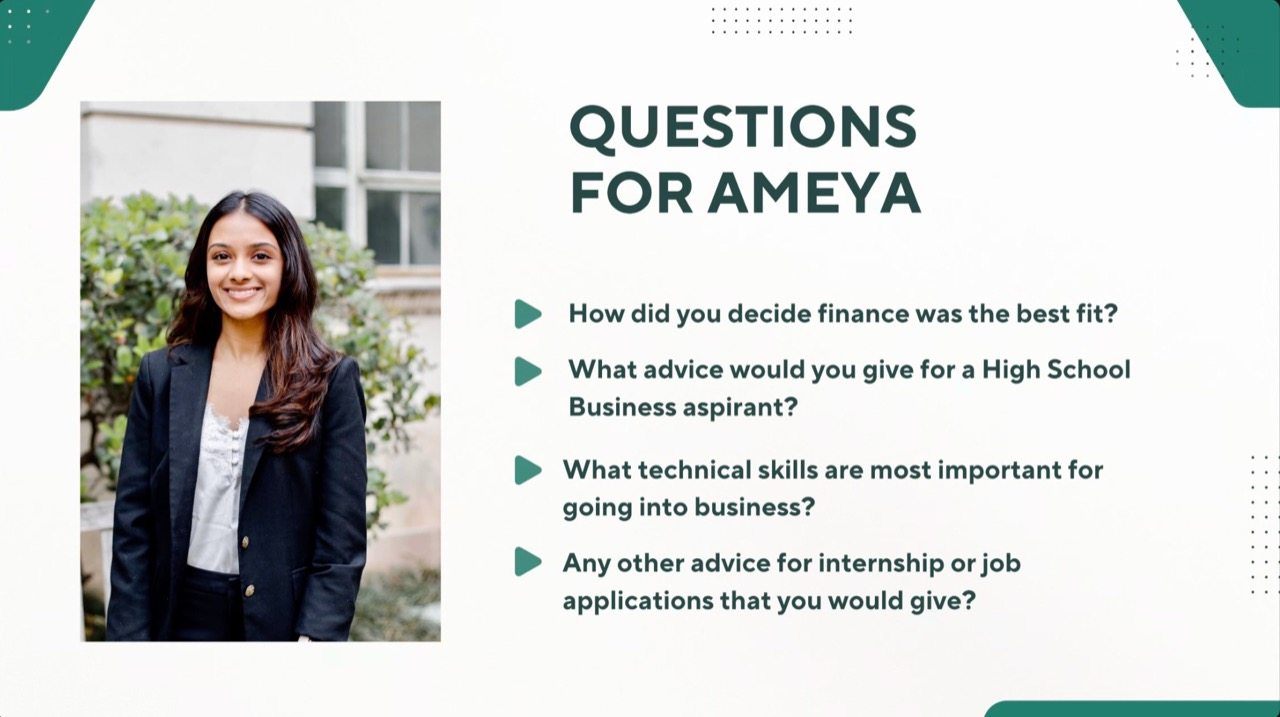
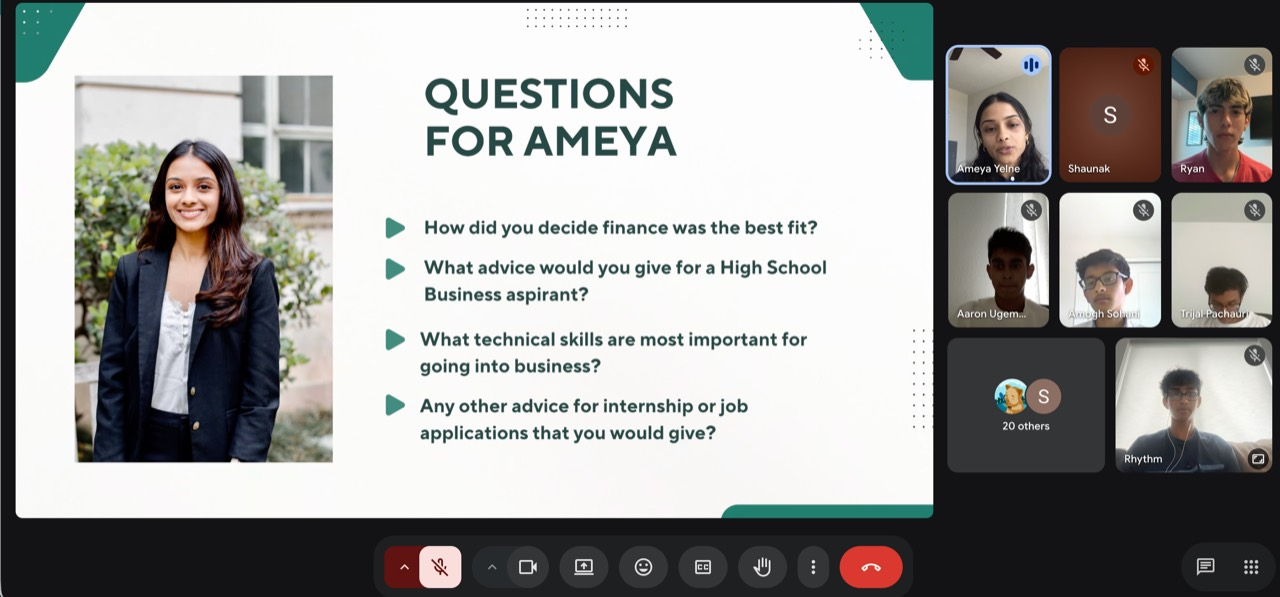
kj

diff --git a/index.html b/index.html
@@ -216,7 +216,7 @@
               <svg width="36" height="36" viewBox="0 0 24 24" fill="none" xmlns="http://www.w3.org/2000/svg"><rect x="3" y="3" width="18" height="18" rx="2" stroke="currentColor" stroke-width="1.5"/><circle cx="8.5" cy="9.5" r="1.5" stroke="currentColor" stroke-width="1.5"/><path d="M21 15l-5-5-9 9" stroke="currentColor" stroke-width="1.5" stroke-linecap="round" stroke-linejoin="round"/></svg>
               <p>Photo coming soon</p>
             </div>
-            <div class="carousel-caption"><div class="cap-event">ABLE Health · July 16</div><div class="cap-title">Health Workshop</div></div>
+            <div class="carousel-caption"><div class="cap-event">ABLE Health · July 16</div><div class="cap-title">Health Literacy Workshop</div></div>
           </div>
           <div class="carousel-slide">
             <img src="assets/images/gallery/preps-webinar/1.jpg" width="1280" height="590" loading="lazy" decoding="async" alt="ABLE Preps webinar" data-fallback>
@@ -224,7 +224,7 @@
               <svg width="36" height="36" viewBox="0 0 24 24" fill="none" xmlns="http://www.w3.org/2000/svg"><rect x="3" y="3" width="18" height="18" rx="2" stroke="currentColor" stroke-width="1.5"/><circle cx="8.5" cy="9.5" r="1.5" stroke="currentColor" stroke-width="1.5"/><path d="M21 15l-5-5-9 9" stroke="currentColor" stroke-width="1.5" stroke-linecap="round" stroke-linejoin="round"/></svg>
               <p>Photo coming soon</p>
             </div>
-            <div class="carousel-caption"><div class="cap-event">ABLE Preps · July 21</div><div class="cap-title">Preps Webinar</div></div>
+            <div class="carousel-caption"><div class="cap-event">ABLE Preps · July 21</div><div class="cap-title">College Admissions Journey Webinar</div></div>
           </div>
           <div class="carousel-slide">
             <img src="assets/images/gallery/business-workshop/3.jpg" width="1280" height="960" loading="lazy" decoding="async" alt="Mark Bittle speaking at the ABLE Business workshop" data-fallback>
@@ -232,7 +232,7 @@
               <svg width="36" height="36" viewBox="0 0 24 24" fill="none" xmlns="http://www.w3.org/2000/svg"><rect x="3" y="3" width="18" height="18" rx="2" stroke="currentColor" stroke-width="1.5"/><circle cx="8.5" cy="9.5" r="1.5" stroke="currentColor" stroke-width="1.5"/><path d="M21 15l-5-5-9 9" stroke="currentColor" stroke-width="1.5" stroke-linecap="round" stroke-linejoin="round"/></svg>
               <p>Photo coming soon</p>
             </div>
-            <div class="carousel-caption"><div class="cap-event">ABLE Business · July 22</div><div class="cap-title">Business Workshop</div></div>
+            <div class="carousel-caption"><div class="cap-event">ABLE Business · July 22</div><div class="cap-title">How to Build a $tartup Workshop</div></div>
           </div>
         </div>
         <button class="carousel-arrow prev" aria-label="Previous photo">‹</button>
@@ -264,8 +264,8 @@
               <span class="event-branch health">ABLE Health</span>
               <time class="timeline-date" datetime="2026-07-16">July 16, 2026</time>
             </div>
-            <h3>Health Workshop</h3>
-            <p>Our first event: a panel session opening the Health branch, covering the health literacy topics school tends to skip.</p>
+            <h3>Health Literacy Workshop</h3>
+            <p>A panel on health literacy: the basics school tends to skip.</p>
           </div>
         </li>
         <li class="timeline-item sat">
@@ -274,8 +274,8 @@
               <span class="event-branch sat">ABLE Preps</span>
               <time class="timeline-date" datetime="2026-07-21">July 21, 2026</time>
             </div>
-            <h3>Preps Webinar</h3>
-            <p>A live online Q&amp;A on SAT prep and college applications, run by students who had recently been through both.</p>
+            <h3>College Admissions Journey Webinar</h3>
+            <p>SAT prep and the college application process, in a live online Q&amp;A.</p>
           </div>
         </li>
         <li class="timeline-item business">
@@ -284,8 +284,8 @@
               <span class="event-branch business">ABLE Business</span>
               <time class="timeline-date" datetime="2026-07-22">July 22, 2026</time>
             </div>
-            <h3>Business Workshop</h3>
-            <p>Our largest event so far, and a full room: guest speaker Mark Bittle on building Titan Robotics from the ground up.</p>
+            <h3>How to Build a $tartup Workshop</h3>
+            <p>Guest speaker Mark Bittle on building Titan Robotics from the ground up.</p>
           </div>
         </li>
         <li class="timeline-item sat">
@@ -294,8 +294,8 @@
               <span class="event-branch sat">ABLE Preps</span>
               <time class="timeline-date" datetime="2026-08-03">August 3, 2026</time>
             </div>
-            <h3>Preps Workshop</h3>
-            <p>Our second Preps event, this time in person. Photos from the day are on their way.</p>
+            <h3>College Admissions Journey Panel</h3>
+            <p>An in-person panel on the college admissions process.</p>
           </div>
         </li>
         <li class="timeline-item business">
@@ -304,8 +304,8 @@
               <span class="event-branch business">ABLE Business</span>
               <time class="timeline-date" datetime="2026-08-15">August 15, 2026</time>
             </div>
-            <h3>Business Webinar</h3>
-            <p>A live online Q&amp;A with guest speaker Ameya Yelne on choosing a career in finance, and what to build now if you're aiming at business. Just under thirty students joined.</p>
+            <h3>Exploring Business Majors Webinar</h3>
+            <p>Guest speaker Ameya Yelne on choosing finance, the technical skills business asks for, and applying for internships.</p>
           </div>
         </li>
       </ol>
@@ -337,7 +337,7 @@
           <div class="speaker-body">
             <h3>Mark Bittle</h3>
             <p class="speaker-org">Founder &amp; CEO, ConnectionMark</p>
-            <p class="speaker-event">ABLE Business Workshop · July 22, 2026</p>
+            <p class="speaker-event">How to Build a $tartup Workshop · July 22, 2026</p>
           </div>
         </div>
 
@@ -349,7 +349,7 @@
           <div class="speaker-body">
             <h3>Michelle Beyrle</h3>
             <p class="speaker-org">Deputy Executive Director, El Paso County Public Health</p>
-            <p class="speaker-event">ABLE Health Workshop · July 16, 2026</p>
+            <p class="speaker-event">Health Literacy Workshop · July 16, 2026</p>
           </div>
         </div>
 
@@ -361,7 +361,7 @@
           <div class="speaker-body">
             <h3>Ameya Yelne</h3>
             <p class="speaker-org">Business student, UT Austin</p>
-            <p class="speaker-event">ABLE Business Webinar · August 15, 2026</p>
+            <p class="speaker-event">Exploring Business Majors Webinar · August 15, 2026</p>
           </div>
         </div>
       </div>

diff --git a/events.html b/events.html
@@ -70,7 +70,7 @@
       <div class="gallery-event-head">
         <div>
           <span class="event-branch health">ABLE Health</span>
-          <h2>Health Workshop</h2>
+          <h2>Health Literacy Workshop</h2>
         </div>
         <span class="gallery-event-date">July 16</span>
       </div>
@@ -89,7 +89,7 @@
       <div class="gallery-event-head">
         <div>
           <span class="event-branch sat">ABLE Preps</span>
-          <h2>Preps Webinar</h2>
+          <h2>College Admissions Journey Webinar</h2>
         </div>
         <span class="gallery-event-date">July 21</span>
       </div>
@@ -108,7 +108,7 @@
       <div class="gallery-event-head">
         <div>
           <span class="event-branch business">ABLE Business</span>
-          <h2>Business Workshop</h2>
+          <h2>How to Build a $tartup Workshop</h2>
         </div>
         <span class="gallery-event-date">July 22</span>
       </div>
@@ -155,14 +155,14 @@
       <div class="gallery-event-head">
         <div>
           <span class="event-branch sat">ABLE Preps</span>
-          <h2>Preps Workshop</h2>
+          <h2>College Admissions Journey Panel</h2>
         </div>
         <span class="gallery-event-date">August 3</span>
       </div>
       <div class="gallery-grid" data-event="preps-workshop">
         <!-- No photos from this event yet. When they arrive, drop them in
              assets/images/gallery/preps-workshop/ and replace this placeholder
-             with event-photo blocks copied from the Business Workshop above
+             with event-photo blocks copied from the $tartup Workshop above
              (keep the width/height/loading/decoding attributes). -->
         <div class="event-photo" style="aspect-ratio:4/3; border-radius:var(--radius-md); position:relative;">
           <div class="event-photo-fallback" style="display:block">Photos coming soon</div>
@@ -177,17 +177,21 @@
       <div class="gallery-event-head">
         <div>
           <span class="event-branch business">ABLE Business</span>
-          <h2>Business Webinar</h2>
+          <h2>Exploring Business Majors Webinar</h2>
         </div>
         <span class="gallery-event-date">August 15</span>
       </div>
       <div class="gallery-grid" data-event="business-webinar">
-        <!-- Cropped from the call screenshot to the presentation area only: the
-             participant tiles, the People panel and the meeting code in the
-             title bar are all outside this frame. Keep it that way if you add
-             more — see the README. -->
+        <!-- Screenshots of the call, with the title bar trimmed off the top:
+             it carried the Google Meet joining code, which anyone reading this
+             page could otherwise have used to drop into a later session. Trim
+             any further ones the same way — see the README. -->
         <div class="event-photo" style="aspect-ratio:4/3; border-radius:var(--radius-md); position:relative;">
-          <img src="assets/images/gallery/business-webinar/1.jpg" width="1280" height="717" loading="lazy" decoding="async" alt="Slide from the ABLE Business webinar listing the questions put to guest speaker Ameya Yelne" data-fallback>
+          <img src="assets/images/gallery/business-webinar/1.jpg" width="1280" height="597" loading="lazy" decoding="async" alt="The ABLE Business webinar in progress: guest speaker Ameya Yelne's slide of questions, alongside the students attending" data-fallback>
+          <div data-fallback-el class="event-photo-fallback"><div>Photos coming soon</div></div>
+        </div>
+        <div class="event-photo" style="aspect-ratio:4/3; border-radius:var(--radius-md); position:relative;">
+          <img src="assets/images/gallery/business-webinar/2.jpg" width="1280" height="603" loading="lazy" decoding="async" alt="Later in the ABLE Business webinar, with the attendee list open beside the presentation" data-fallback>
           <div data-fallback-el class="event-photo-fallback"><div>Photos coming soon</div></div>
         </div>
       </div>

diff --git a/README.md b/README.md
@@ -235,12 +235,12 @@ inline, and CSS only blanked them while the section was off-screen and only when
       two cards both name a title and employer, and the site shouldn't invent
       one. Add the line when you have it.
 
-- [ ] **Preps Workshop photos** (Aug 3). The event's `.gallery-grid` in
+- [ ] **College Admissions Journey Panel photos** (Aug 3). The event's `.gallery-grid` in
       `events.html` currently holds a single "Photos coming soon" tile. It used to
       hold two `<img>` tags pointing at `preps-workshop/1.jpg` and `2.png`, neither
       of which was ever added, so every visit fired two 404s. Drop the real files
       into `assets/images/gallery/preps-workshop/` and replace the placeholder with
-      `event-photo` blocks copied from the Business Workshop above.
+      `event-photo` blocks copied from the $tartup Workshop above.
 - [ ] **Payment processor.** The "Donate now" button is a `mailto:`. Once a processor is
       set up (Zeffy is 0% for nonprofits; Givebutter and Stripe also work), swap the
       `href` in `donate.html` and delete the "online giving is being set up" footnote.
@@ -270,19 +270,24 @@ so the public can't add anything. To add one, copy an existing
 in `events.html` and point its `<img src>` at a file under
 `assets/images/gallery/<event>/`.
 
-| Event | Date | Photos |
-|---|---|---|
-| ABLE Health Workshop | July 16 | 1 |
-| ABLE Preps Webinar | July 21 | 1 |
-| ABLE Business Workshop | July 22 | 8 |
-| ABLE Preps Workshop | August 3 | 0 — placeholder tile, photos still needed |
-| ABLE Business Webinar | August 15 | 1 |
+| Event | Branch | Date | Photos |
+|---|---|---|---|
+| Health Literacy Workshop | ABLE Health | July 16 | 1 |
+| College Admissions Journey Webinar | ABLE Preps | July 21 | 1 |
+| How to Build a $tartup Workshop | ABLE Business | July 22 | 8 |
+| College Admissions Journey Panel | ABLE Preps | August 3 | 0 — placeholder tile, photos still needed |
+| Exploring Business Majors Webinar | ABLE Business | August 15 | 2 |
 
-The Business Webinar ran on Google Meet, so its photo is a crop of a call
-screenshot. **Crop any further ones the same way.** The raw captures show
-attendee faces next to full names, most of them students, plus a People panel
-listing another eight, and the meeting code sits in the title bar of every shot
-— published on a public site, that code invites anyone to join a later call on
-it. The presentation area is the only region that carries the content worth
-showing and none of the identifying detail. The two webinar events use
-`object-fit: contain` so their wide slides aren't cropped to the middle.
+Exploring Business Majors Webinar ran on Google Meet, so its photos are screenshots of the
+call, showing the attendees as well as the presentation. **Trim the title bar
+off any further ones.** Google Meet puts the joining code there, and published
+on a public page that code lets anyone drop into a later session on it — it is
+the one piece of these captures that is a security question rather than a
+judgement call. Roughly the top 9-10% of a full-screen capture does it; check
+the result rather than trusting the fraction.
+
+Note `sips --cropOffset` silently does nothing if either offset is `0`, leaving
+the image uncropped at its original size. Pass `1` instead and lose a pixel.
+
+The two webinar events use `object-fit: contain` so their wide captures aren't
+cropped to the middle of the frame.
